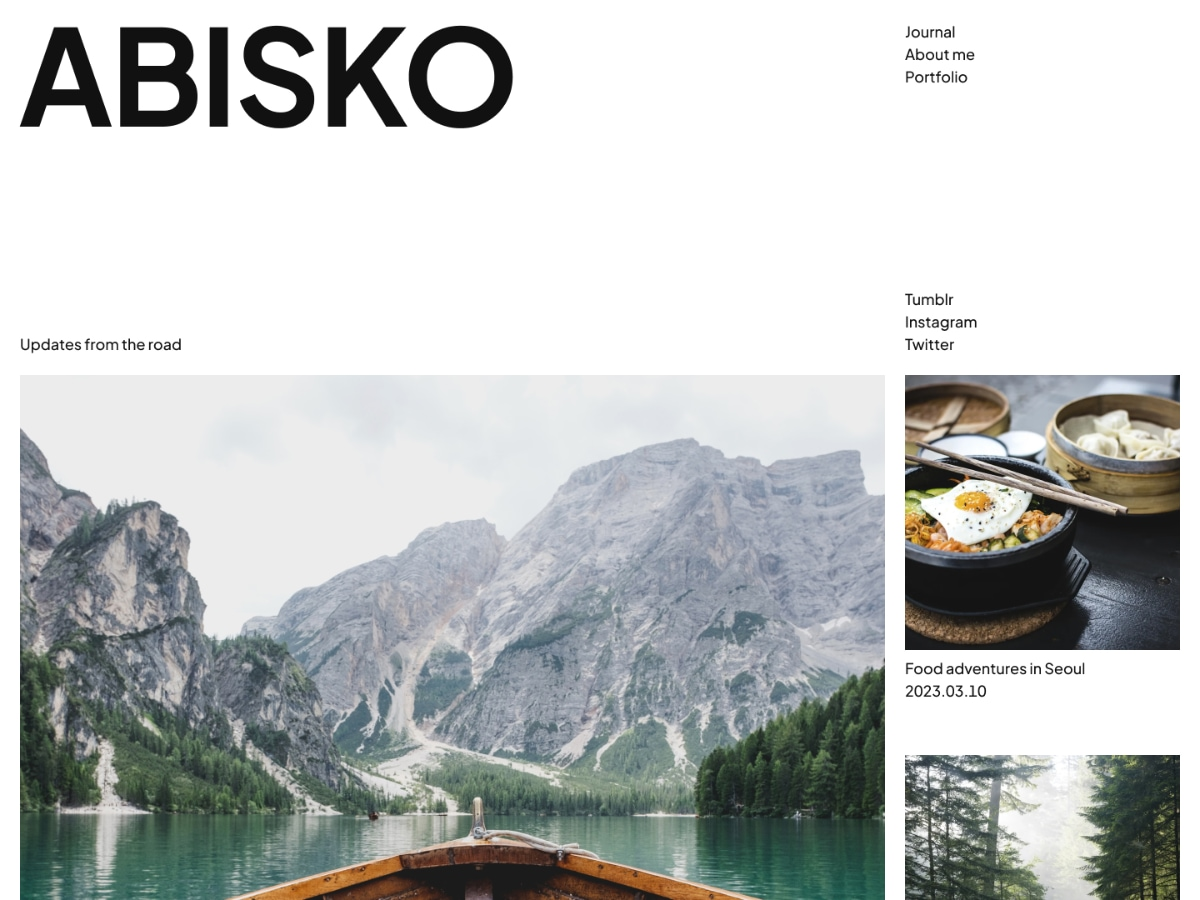
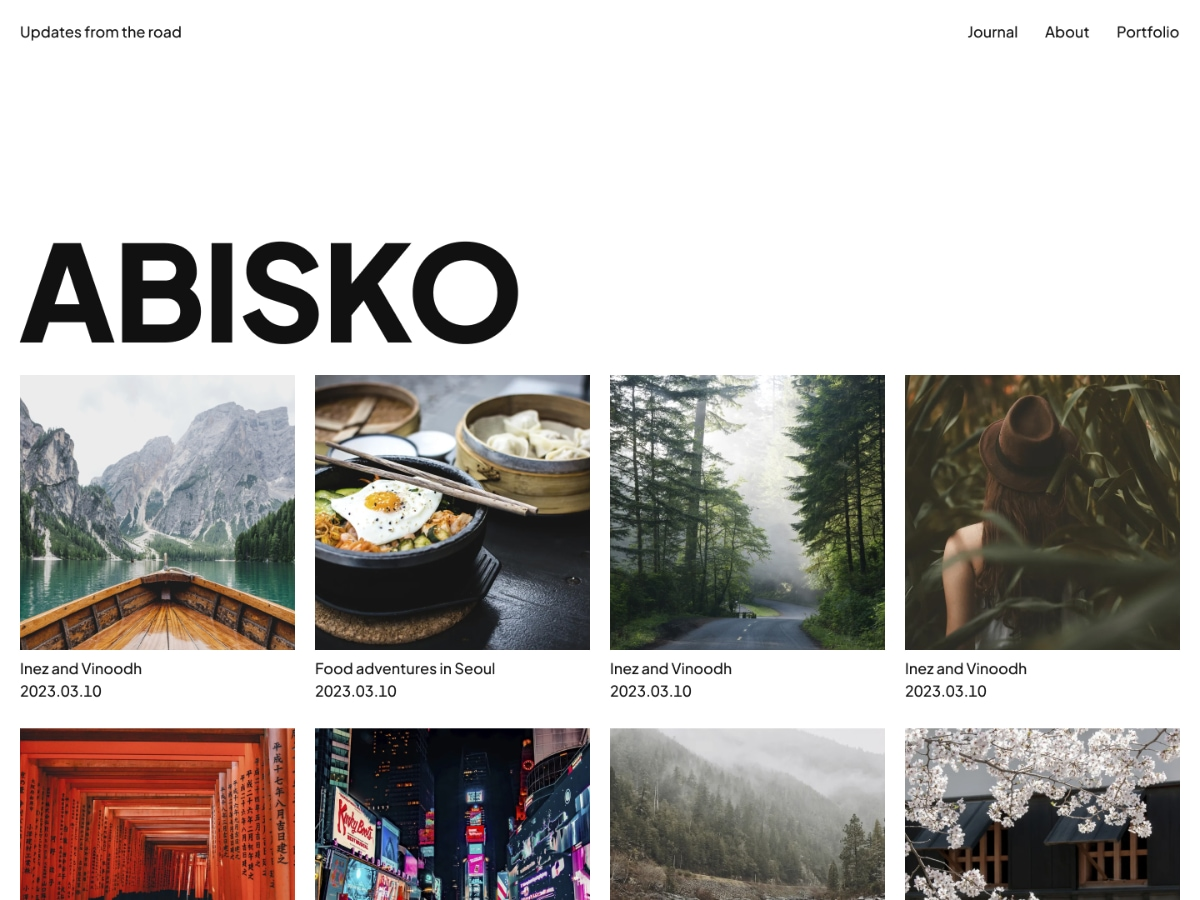
Progress

diff --git a/parts/header-large.html b/parts/header-large.html
@@ -1,13 +1,13 @@
 <!-- wp:group {"align":"full","style":{"spacing":{"padding":{"bottom":"var:preset|spacing|40"}}},"layout":{"type":"constrained"}} -->
-<div class="wp-block-group alignfull" style="padding-bottom:var(--wp--preset--spacing--40)"><!-- wp:group {"align":"wide","style":{"spacing":{"padding":{"bottom":"0.03em"}}},"layout":{"type":"flex","flexWrap":"nowrap","justifyContent":"space-between","verticalAlignment":"top"},"fontSize":"heading-1"} -->
-<div class="wp-block-group alignwide has-heading-1-font-size" style="padding-bottom:0.03em"><!-- wp:site-title /-->
+<div class="wp-block-group alignfull" style="padding-bottom:var(--wp--preset--spacing--40)"><!-- wp:group {"align":"wide","style":{"spacing":{"padding":{"bottom":"0.03em"}}},"layout":{"type":"flex","flexWrap":"nowrap","justifyContent":"space-between","verticalAlignment":"top"}} -->
+<div class="wp-block-group alignwide" style="padding-bottom:0.03em"><!-- wp:site-tagline /-->
 
 <!-- wp:group {"style":{"spacing":{"padding":{"top":"0.04em"}}},"layout":{"type":"constrained"}} -->
-<div class="wp-block-group" style="padding-top:0.04em"><!-- wp:navigation {"ref":25060,"icon":"menu","__unstableLocation":"primary","layout":{"type":"flex","setCascadingProperties":"true","justifyContent":"right","orientation":"horizontal","flexWrap":"wrap"},"style":{"spacing":{"blockGap":"var:preset|spacing|50"}},"fontSize":"medium"} /--></div>
+<div class="wp-block-group" style="padding-top:0.04em"><!-- wp:navigation {"ref":25060,"icon":"menu","__unstableLocation":"primary","layout":{"type":"flex","setCascadingProperties":"true","justifyContent":"left","orientation":"horizontal","flexWrap":"wrap"},"style":{"spacing":{"blockGap":"var:preset|spacing|50"}},"fontSize":"medium"} /--></div>
 <!-- /wp:group --></div>
 <!-- /wp:group -->
 
-<!-- wp:group {"align":"wide","style":{"spacing":{"padding":{"top":"20vh"}}},"layout":{"type":"flex","flexWrap":"nowrap","justifyContent":"space-between","verticalAlignment":"top"}} -->
-<div class="wp-block-group alignwide" style="padding-top:20vh"><!-- wp:site-tagline /--></div>
+<!-- wp:group {"align":"wide","style":{"spacing":{"padding":{"top":"var:preset|spacing|100"}}},"layout":{"type":"flex","flexWrap":"nowrap","justifyContent":"space-between","verticalAlignment":"top"}} -->
+<div class="wp-block-group alignwide" style="padding-top:var(--wp--preset--spacing--100)"><!-- wp:site-title /--></div>
 <!-- /wp:group --></div>
 <!-- /wp:group -->

diff --git a/templates/home.html b/templates/home.html
@@ -1,19 +1,7 @@
 <!-- wp:template-part {"slug":"header-large","theme":"abisko","tagName":"header","className":"site-header"} /-->
 
-<!-- wp:group {"tagName":"main","style":{"spacing":{"margin":{"top":"0","bottom":"0"}}},"className":"is-style-default","layout":{"type":"constrained"}} -->
-<main class="wp-block-group is-style-default" style="margin-top:0;margin-bottom:0"><!-- wp:query {"queryId":1,"query":{"perPage":"12","pages":"100","offset":"3","postType":"post","order":"desc","orderBy":"date","author":"","search":"","sticky":"exclude","inherit":true},"displayLayout":{"type":"flex","columns":4},"align":"wide"} -->
-<div class="wp-block-query alignwide"><!-- wp:post-template -->
-<!-- wp:template-part {"slug":"preview","theme":"abisko"} /-->
-<!-- /wp:post-template -->
-
-<!-- wp:group {"style":{"spacing":{"margin":{"top":"var:preset|spacing|90","bottom":"0"},"padding":{"bottom":"var:preset|spacing|40"}}},"className":"pagination-wrapper","layout":{"type":"default"}} -->
-<div class="wp-block-group pagination-wrapper" style="margin-top:var(--wp--preset--spacing--90);margin-bottom:0;padding-bottom:var(--wp--preset--spacing--40)"><!-- wp:query-pagination {"paginationArrow":"arrow","style":{"typography":{"fontStyle":"normal","fontWeight":"700","textTransform":"uppercase"}},"className":"is-style-abisko-pagination-arrow-links is-style-abisko-arrow-links","layout":{"type":"flex","justifyContent":"stretch","flexWrap":"wrap","orientation":"vertical"},"fontSize":"heading-1"} -->
-<!-- wp:query-pagination-previous {"label":"Previous"} /-->
-
-<!-- wp:query-pagination-next {"label":"Next"} /-->
-<!-- /wp:query-pagination --></div>
-<!-- /wp:group --></div>
-<!-- /wp:query --></main>
+<!-- wp:group {"tagName":"main","style":{"spacing":{"margin":{"top":"0","bottom":"0"}}},"className":"is-style-default","layout":{"inherit":true,"type":"constrained"}} -->
+<main class="wp-block-group is-style-default" style="margin-top:0;margin-bottom:0"><!-- wp:template-part {"slug":"loop","theme":"abisko","align":"wide"} /--></main>
 <!-- /wp:group -->
 
 <!-- wp:template-part {"slug":"footer","theme":"abisko","tagName":"footer","className":"site-footer"} /-->

diff --git a/templates/single.html b/templates/single.html
@@ -1,8 +1,8 @@
 <!-- wp:template-part {"slug":"header","theme":"abisko","tagName":"header","className":"site-header"} /-->
 
 <!-- wp:group {"tagName":"main","style":{"spacing":{"margin":{"top":"0","bottom":"0"}}},"layout":{"type":"default"}} -->
-<main class="wp-block-group" style="margin-top:0;margin-bottom:0"><!-- wp:group {"style":{"spacing":{"margin":{"top":"var:preset|spacing|90","bottom":"var:preset|spacing|70"},"blockGap":"var:preset|spacing|40"}},"layout":{"type":"constrained"}} -->
-<div class="wp-block-group" style="margin-top:var(--wp--preset--spacing--90);margin-bottom:var(--wp--preset--spacing--70)"><!-- wp:post-title {"textAlign":"left","level":1,"align":"wide"} /-->
+<main class="wp-block-group" style="margin-top:0;margin-bottom:0"><!-- wp:group {"style":{"spacing":{"margin":{"bottom":"var:preset|spacing|70","top":"var:preset|spacing|100"},"blockGap":"var:preset|spacing|40"}},"layout":{"type":"constrained"}} -->
+<div class="wp-block-group" style="margin-top:var(--wp--preset--spacing--100);margin-bottom:var(--wp--preset--spacing--70)"><!-- wp:post-title {"textAlign":"left","level":1,"align":"wide"} /-->
 
 <!-- wp:post-featured-image {"align":"wide"} /--></div>
 <!-- /wp:group -->

diff --git a/parts/header.html b/parts/header.html
@@ -3,7 +3,7 @@
 <div class="wp-block-group alignwide has-heading-1-font-size" style="padding-bottom:0.03em"><!-- wp:site-title {"level":2} /-->
 
 <!-- wp:group {"style":{"spacing":{"padding":{"top":"0.04em"}}},"layout":{"type":"constrained"}} -->
-<div class="wp-block-group" style="padding-top:0.04em"><!-- wp:navigation {"ref":25060,"icon":"menu","__unstableLocation":"primary","layout":{"type":"flex","setCascadingProperties":"true","justifyContent":"right","orientation":"horizontal","flexWrap":"wrap"},"style":{"spacing":{"blockGap":"var:preset|spacing|50"}},"fontSize":"medium"} /--></div>
+<div class="wp-block-group" style="padding-top:0.04em"><!-- wp:navigation {"ref":25060,"icon":"menu","__unstableLocation":"primary","layout":{"type":"flex","setCascadingProperties":"true","justifyContent":"left","orientation":"horizontal","flexWrap":"wrap"},"style":{"spacing":{"blockGap":"var:preset|spacing|50"}},"fontSize":"medium"} /--></div>
 <!-- /wp:group --></div>
 <!-- /wp:group --></div>
 <!-- /wp:group -->

diff --git a/style.css b/style.css
@@ -326,7 +326,6 @@ ol.wp-block-comment-template {
 
 }
 
-
 /* Block: Post Featured Image ---------------- */
 
 [class*="is-style-abisko-ar-"],
@@ -335,10 +334,11 @@ ol.wp-block-comment-template {
 	overflow: hidden;
 }
 
-.is-style-abisko-ar-1x1.wp-block-post-featured-image,
-.is-style-abisko-ar-1x1.wp-block-post-featured-image img {
-	aspect-ratio: 1/1;
-}
+[class*="ar-1x1"].wp-block-post-featured-image,
+[class*="ar-1x1"].wp-block-post-featured-image img { aspect-ratio: 1/1; }
+
+[class*="ar-4x3"].wp-block-post-featured-image,
+[class*="ar-4x3"].wp-block-post-featured-image img { aspect-ratio: 4/3; }
 
 /* Block: Post Terms ------------------------- */
 

diff --git a/parts/loop.html b/parts/loop.html
@@ -1,4 +1,4 @@
-<!-- wp:query {"queryId":1,"query":{"perPage":"1","pages":"100","offset":0,"postType":"post","order":"desc","orderBy":"date","author":"","search":"","sticky":"","inherit":true},"displayLayout":{"type":"flex","columns":4}} -->
+<!-- wp:query {"queryId":1,"query":{"perPage":"12","pages":"100","offset":0,"postType":"post","order":"desc","orderBy":"date","author":"","search":"","sticky":"","inherit":true},"displayLayout":{"type":"flex","columns":4}} -->
 <div class="wp-block-query"><!-- wp:post-template -->
 	<!-- wp:template-part {"slug":"preview","theme":"abisko"} /-->
 	<!-- /wp:post-template -->

diff --git a/functions.php b/functions.php
@@ -78,10 +78,16 @@ add_filter( 'comment_form_defaults', 'abisko_comment_form_defaults' );
 if ( ! function_exists( 'abisko_register_block_styles' ) ) :
 	function abisko_register_block_styles() {
 
-		// Featured Image: Aspect Ratio: Square
+		// Featured Image: Ratio: 1/1
 		register_block_style( 'core/post-featured-image', array(
 			'name'  	=> 'abisko-ar-1x1',
-			'label' 	=> esc_html__( 'Aspect Ratio: Square', 'abisko' ),
+			'label' 	=> esc_html__( 'Ratio: 1/1', 'abisko' ),
+		) );
+
+		// Featured Image: Ratio: 4/3
+		register_block_style( 'core/post-featured-image', array(
+			'name'  	=> 'abisko-ar-4x3',
+			'label' 	=> esc_html__( 'Ratio: 4/3', 'abisko' ),
 		) );
 
 		// Term: Buttons
